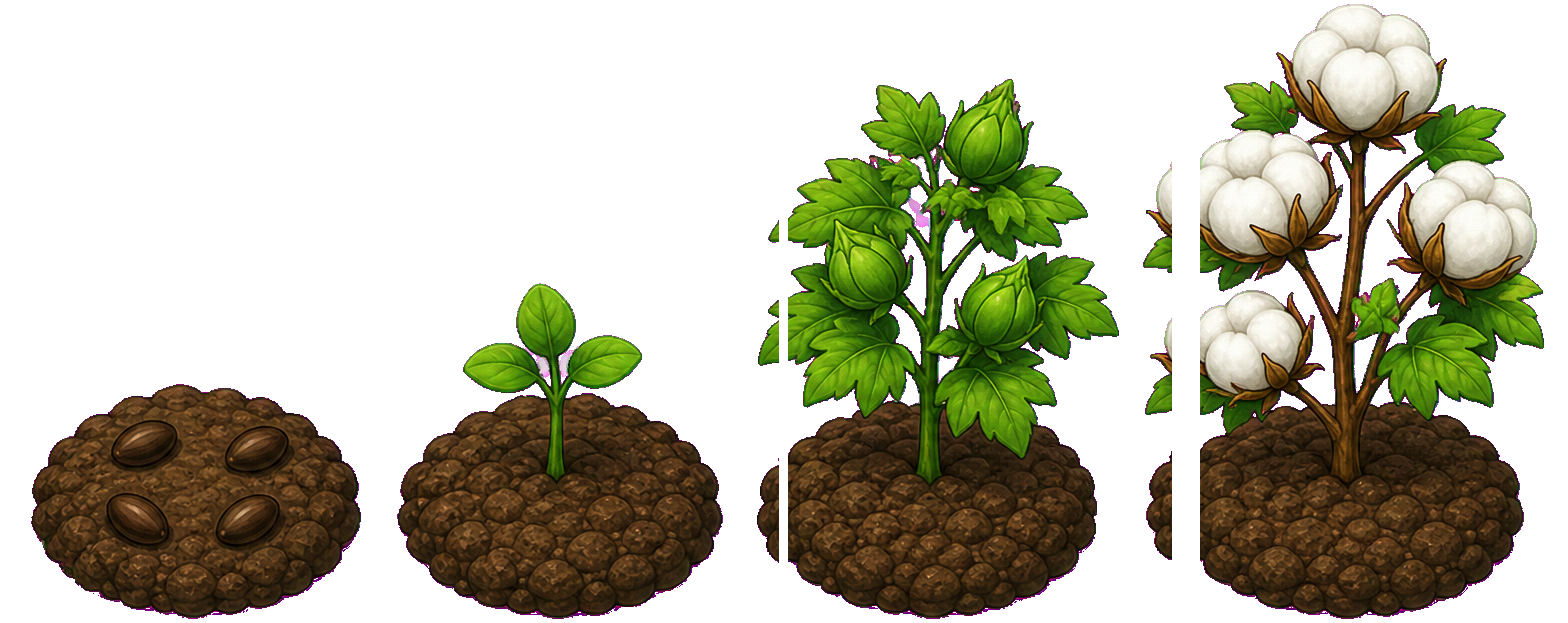
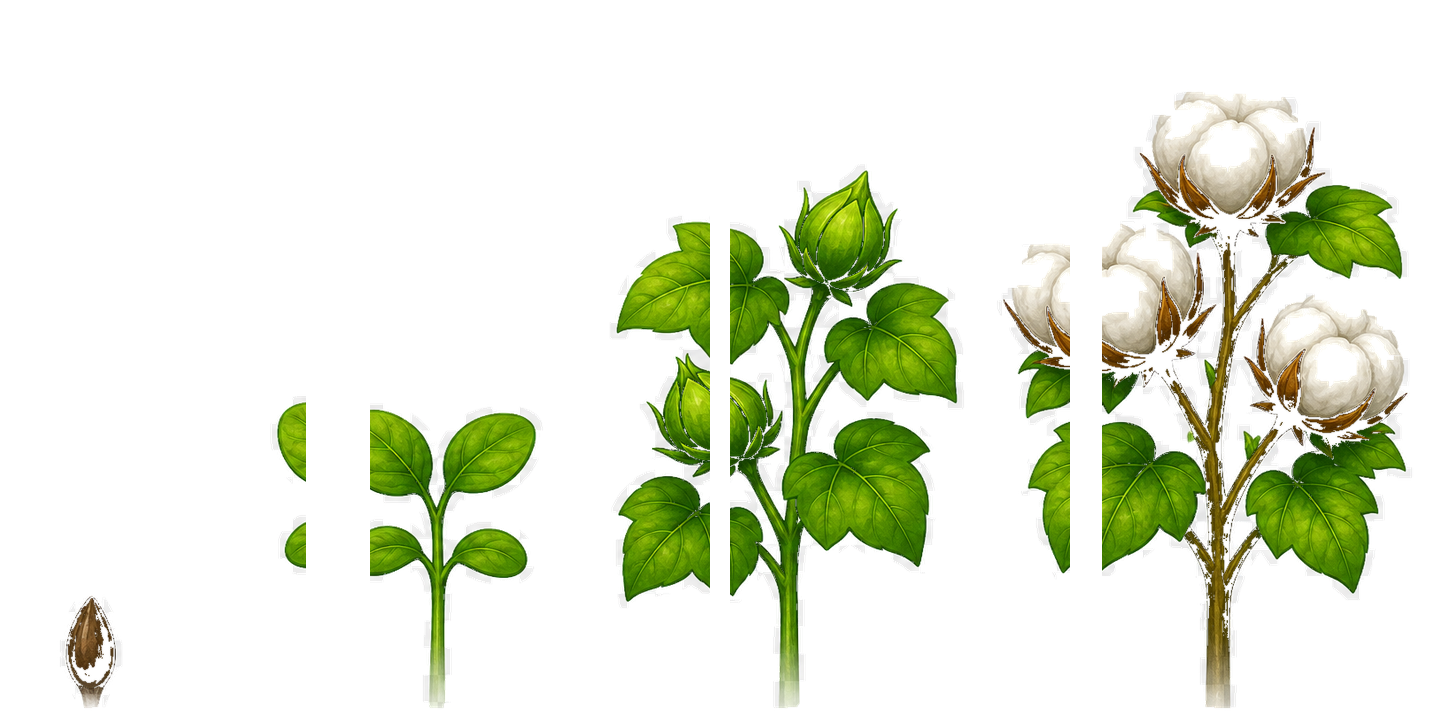
Seat plants in painted mound centers without dirt cookies
Replace the farm soil-rect UV lerp with measured 3×3 mound-peak
anchors on each garden, recentre the zoom hotspots the same way, and
swap crop sheets to plant-only stems anchored at bottom-center.

diff --git a/apps/player/src/pixi/playfieldLayout.ts b/apps/player/src/pixi/playfieldLayout.ts
@@ -41,17 +41,51 @@ export const PLAYFIELD_LAYOUT = {
     {
       hit: { u0: 0.02, v0: 0.4, u1: 0.32, v1: 0.9 } satisfies UvRect,
       sign: { u: 0.163, v: 0.484 } satisfies Uv,
-      soil: { u0: 0.07, v0: 0.62, u1: 0.27, v1: 0.86 } satisfies UvRect,
+      soil: { u0: 0.09, v0: 0.615, u1: 0.266, v1: 0.785 } satisfies UvRect,
+      /** Stem anchors: pebble-ring / mound-peak centers, measured on the v3 painting. */
+      mounds: [
+        { u: 0.12, v: 0.648 },
+        { u: 0.178, v: 0.648 },
+        { u: 0.236, v: 0.648 },
+        { u: 0.12, v: 0.698 },
+        { u: 0.178, v: 0.698 },
+        { u: 0.236, v: 0.698 },
+        { u: 0.12, v: 0.748 },
+        { u: 0.178, v: 0.748 },
+        { u: 0.236, v: 0.748 },
+      ] as const satisfies readonly Uv[],
     },
     {
       hit: { u0: 0.34, v0: 0.4, u1: 0.66, v1: 0.9 } satisfies UvRect,
       sign: { u: 0.495, v: 0.48 } satisfies Uv,
-      soil: { u0: 0.39, v0: 0.62, u1: 0.61, v1: 0.86 } satisfies UvRect,
+      soil: { u0: 0.412, v0: 0.615, u1: 0.588, v1: 0.785 } satisfies UvRect,
+      mounds: [
+        { u: 0.442, v: 0.648 },
+        { u: 0.5, v: 0.648 },
+        { u: 0.558, v: 0.648 },
+        { u: 0.442, v: 0.698 },
+        { u: 0.5, v: 0.698 },
+        { u: 0.558, v: 0.698 },
+        { u: 0.442, v: 0.748 },
+        { u: 0.5, v: 0.748 },
+        { u: 0.558, v: 0.748 },
+      ] as const satisfies readonly Uv[],
     },
     {
       hit: { u0: 0.66, v0: 0.4, u1: 0.99, v1: 0.9 } satisfies UvRect,
       sign: { u: 0.795, v: 0.484 } satisfies Uv,
-      soil: { u0: 0.71, v0: 0.62, u1: 0.93, v1: 0.86 } satisfies UvRect,
+      soil: { u0: 0.742, v0: 0.615, u1: 0.918, v1: 0.785 } satisfies UvRect,
+      mounds: [
+        { u: 0.772, v: 0.648 },
+        { u: 0.83, v: 0.648 },
+        { u: 0.888, v: 0.648 },
+        { u: 0.772, v: 0.698 },
+        { u: 0.83, v: 0.698 },
+        { u: 0.888, v: 0.698 },
+        { u: 0.772, v: 0.748 },
+        { u: 0.83, v: 0.748 },
+        { u: 0.888, v: 0.748 },
+      ] as const satisfies readonly Uv[],
     },
   ],
 } as const;
@@ -60,13 +94,9 @@ export const PLAYFIELD_LAYOUT = {
 export const MOUND_COLS = GARDEN_PLOT_COLS;
 export const PLAYABLE_PLOT_SLOTS = PLOTS_PER_GARDEN;
 
-export function moundUv(soil: UvRect, slot: number): Uv {
-  const col = ((slot % MOUND_COLS) + MOUND_COLS) % MOUND_COLS;
-  const row = Math.min(MOUND_COLS - 1, Math.floor(Math.max(0, slot) / MOUND_COLS));
-  return {
-    u: soil.u0 + ((col + 0.5) / MOUND_COLS) * (soil.u1 - soil.u0),
-    v: soil.v0 + ((row + 0.5) / MOUND_COLS) * (soil.v1 - soil.v0),
-  };
+export function moundUv(garden: { mounds: readonly Uv[] }, slot: number): Uv {
+  const i = ((slot % PLOTS_PER_GARDEN) + PLOTS_PER_GARDEN) % PLOTS_PER_GARDEN;
+  return garden.mounds[i]!;
 }
 
 export function uvToLocal(uv: Uv, texW: number, texH: number) {

diff --git a/apps/player/src/pixi/playfieldLayout.test.ts b/apps/player/src/pixi/playfieldLayout.test.ts
@@ -102,15 +102,34 @@ test("garden plaques show seeds and points under the name", () => {
   assert.equal(gardenSignStats(3, 12), "3 seeds · 12 pts");
 });
 
-test("nine playable mounds fill the painted 3×3 soil", () => {
-  const soil = PLAYFIELD_LAYOUT.gardens[0].soil;
-  const slots = [0, 1, 2, 3, 4, 5, 6, 7, 8].map((slot) => moundUv(soil, slot));
+test("nine playable mounds sit on measured mound peaks, not a soil-rect lerp", () => {
+  const garden = PLAYFIELD_LAYOUT.gardens[0];
+  const slots = [0, 1, 2, 3, 4, 5, 6, 7, 8].map((slot) => moundUv(garden, slot));
+  assert.equal(garden.mounds.length, 9);
   assert.ok(slots[0].u < slots[1].u && slots[1].u < slots[2].u);
   assert.ok(slots[0].v < slots[3].v && slots[3].v < slots[6].v, "row 0 back, row 2 front");
   for (const uv of slots) {
-    assert.ok(uv.u > soil.u0 && uv.u < soil.u1);
-    assert.ok(uv.v > soil.v0 && uv.v < soil.v1);
+    assert.ok(uv.u > garden.soil.u0 && uv.u < garden.soil.u1);
+    assert.ok(uv.v > garden.soil.v0 && uv.v < garden.soil.v1);
   }
+  // Legacy lerp put slot 0 at ~0.103, 0.66 — far from the painted peak.
+  assert.ok(Math.abs(slots[0].u - 0.1033) > 0.01);
+  assert.ok(slots[0].u > 0.11 && slots[0].u < 0.14);
+  assert.ok(slots[8].u > 0.22 && slots[8].u < 0.25);
+  assert.ok(slots[6].v < 0.77, "front row stays on the mound, not the gate");
+});
+
+test("each farm garden has its own 9 mound anchors", () => {
+  for (const garden of PLAYFIELD_LAYOUT.gardens) {
+    assert.equal(garden.mounds.length, 9);
+    const mid = moundUv(garden, 4);
+    assert.ok(mid.u > garden.soil.u0 && mid.u < garden.soil.u1);
+    assert.ok(mid.v > garden.soil.v0 && mid.v < garden.soil.v1);
+  }
+  const left = moundUv(PLAYFIELD_LAYOUT.gardens[0], 4);
+  const center = moundUv(PLAYFIELD_LAYOUT.gardens[1], 4);
+  const right = moundUv(PLAYFIELD_LAYOUT.gardens[2], 4);
+  assert.ok(left.u < center.u && center.u < right.u);
 });
 
 test("right-facing cow sheet flips via scale.x when roaming left", () => {

diff --git a/apps/player/src/pixi/GardenScene.ts b/apps/player/src/pixi/GardenScene.ts
@@ -9,7 +9,13 @@ import {
   GARDEN_ZOOM_TEXTURE,
   gardenMoundUv,
 } from "./gardenLayout";
-import { CROP_FRAME_WIDTH, cropStageFrame, type PaintedArt } from "./paintedAssets";
+import {
+  CROP_FRAME_HEIGHT,
+  PLANT_STEM_ANCHOR,
+  ZOOM_PLANT_HEIGHT_PX,
+  cropStageFrame,
+  type PaintedArt,
+} from "./paintedAssets";
 import { uvToLocal } from "./playfieldLayout";
 
 /**
@@ -172,7 +178,7 @@ class PlotNode {
     this.glow.blendMode = "add";
     this.glow.visible = false;
     this.sparkle = new SparkleField(atlas, 8);
-    this.plant.anchor.set(0.5, 0.9);
+    this.plant.anchor.set(PLANT_STEM_ANCHOR.x, PLANT_STEM_ANCHOR.y);
     this.label = new Text({
       text: "",
       style: {
@@ -192,13 +198,13 @@ class PlotNode {
 
   layout(s: number) {
     const { rx, ry } = GARDEN_ZOOM_LAYOUT.hit;
-    this.cropScale = (148 * s) / CROP_FRAME_WIDTH;
+    this.cropScale = (ZOOM_PLANT_HEIGHT_PX * s) / CROP_FRAME_HEIGHT;
     this.plant.scale.set(this.cropScale);
-    this.glow.position.set(0, -10 * s);
-    this.glow.scale.set(2.4 * s);
-    this.sparkle.root.position.set(0, -8 * s);
+    this.glow.position.set(0, -18 * s);
+    this.glow.scale.set(2.2 * s);
+    this.sparkle.root.position.set(0, -22 * s);
     this.sparkle.setArea(rx * s * 0.7, ry * s * 0.7);
-    this.label.position.set(0, 28 * s);
+    this.label.position.set(0, 22 * s);
     this.label.style.fontSize = Math.max(14, 18 * s);
     this.root.hitArea = new Ellipse(0, 0, rx * s, ry * s);
   }

diff --git a/apps/player/src/pixi/FarmScene.ts b/apps/player/src/pixi/FarmScene.ts
@@ -6,7 +6,13 @@ import type { Atlas } from "./atlas";
 import { coverFit } from "./draw";
 import type { PixiEngine } from "./engine";
 import { SparkleField } from "./fx";
-import { CROP_FRAME_WIDTH, cropStageFrame, type PaintedArt } from "./paintedAssets";
+import {
+  CROP_FRAME_HEIGHT,
+  FARM_PLANT_HEIGHT_PX,
+  PLANT_STEM_ANCHOR,
+  cropStageFrame,
+  type PaintedArt,
+} from "./paintedAssets";
 import {
   PLAYABLE_PLOT_SLOTS,
   PLAYFIELD_TEXTURE,
@@ -211,7 +217,7 @@ class GardenHotspot {
     this.sparkle = new SparkleField(atlas, 8);
     for (let i = 0; i < PLAYABLE_PLOT_SLOTS; i++) {
       const spr = new Sprite();
-      spr.anchor.set(0.5, 0.9);
+      spr.anchor.set(PLANT_STEM_ANCHOR.x, PLANT_STEM_ANCHOR.y);
       spr.visible = false;
       this.plants.push(spr);
     }
@@ -239,10 +245,9 @@ class GardenHotspot {
     this.nameText.position.set(0, -2);
     this.statsText.position.set(0, 2);
     const soil = uvRectToLocal(this.spec.soil, texW, texH);
-    const cellW = (soil.x1 - soil.x0) / 3;
-    this.cropScale = cellW / CROP_FRAME_WIDTH;
+    this.cropScale = FARM_PLANT_HEIGHT_PX / CROP_FRAME_HEIGHT;
     this.plants.forEach((spr, slot) => {
-      const uv = moundUv(this.spec.soil, slot);
+      const uv = moundUv(this.spec, slot);
       const p = uvToLocal(uv, texW, texH);
       spr.position.set(p.x, p.y);
       spr.scale.set(this.cropScale);

diff --git a/apps/player/src/pixi/paintedAssets.test.ts b/apps/player/src/pixi/paintedAssets.test.ts
@@ -1,6 +1,6 @@
 import assert from "node:assert/strict";
 import test from "node:test";
-import { COW_EAT_SHEET, PAINTED_ART, sheetFrameRects, SHEET_INSET } from "./paintedAssets.ts";
+import { CROP_FRAME_WIDTH, CROP_SHEET, COW_EAT_SHEET, PAINTED_ART, sheetFrameRects, SHEET_INSET } from "./paintedAssets.ts";
 
 test("walk uses two separate textures, not a combined walk/eat sheet", () => {
   assert.equal(PAINTED_ART.cowWalk.length, 2);
@@ -12,6 +12,16 @@ test("walk uses two separate textures, not a combined walk/eat sheet", () => {
   assert.ok(PAINTED_ART.cowWalk.every((url) => url.endsWith(".png")));
   assert.ok(PAINTED_ART.playfield.includes("v3_no_static_cow"));
   assert.equal(PAINTED_ART.gardenZoom, "/art/painted/garden/garden_zoom_3x3.jpg");
+});
+
+test("crop sheets are plant-only equal cells with stem at the bottom", () => {
+  assert.equal(CROP_SHEET.width, 1440);
+  assert.equal(CROP_SHEET.height, 720);
+  assert.equal(CROP_SHEET.frames, 4);
+  assert.equal(CROP_FRAME_WIDTH, 360);
+  assert.ok(PAINTED_ART.crops.corn.endsWith(".png"));
+  assert.ok(PAINTED_ART.crops.strawberry.endsWith(".png"));
+  assert.ok(PAINTED_ART.crops.cotton.endsWith(".png"));
 });
 
 test("eat sheet frames are equal, in-bounds, and do not share pixels", () => {

diff --git a/apps/player/src/pixi/paintedAssets.ts b/apps/player/src/pixi/paintedAssets.ts
@@ -2,8 +2,16 @@ import { CROP_KINDS, type CropKind } from "@farmhand/shared";
 import { Assets, Rectangle, Texture } from "pixi.js";
 
 export const CROP_STAGE_FRAMES = 4;
-/** Equal slice width on every crop sheet (1568 / 4). */
-export const CROP_FRAME_WIDTH = 392;
+/** Plant-only sheets: 1440×720, four equal cells, stem at the bottom of each cell. */
+export const CROP_SHEET = { width: 1440, height: 720, frames: 4 } as const;
+export const CROP_FRAME_WIDTH = CROP_SHEET.width / CROP_SHEET.frames;
+export const CROP_FRAME_HEIGHT = CROP_SHEET.height;
+/** Pixi sprite pivot: bottom-center of the stem/seed, seated in the painted mound. */
+export const PLANT_STEM_ANCHOR = { x: 0.5, y: 1 } as const;
+/** On-texture height of a full crop frame on the farm playfield (mature corn fills most of the cell). */
+export const FARM_PLANT_HEIGHT_PX = 64;
+/** On-texture height of a full crop frame in the zoomed garden. */
+export const ZOOM_PLANT_HEIGHT_PX = 220;
 
 /** Padded 4-frame eat/graze PNG with real alpha (equal cells; Pixi insets so frames never share pixels). */
 export const COW_EAT_SHEET = { width: 1704, height: 304, frames: 4 } as const;

diff --git a/apps/player/src/pixi/gardenLayout.ts b/apps/player/src/pixi/gardenLayout.ts
@@ -23,23 +23,23 @@ export const GARDEN_TOOL_LABEL: Record<GardenTool, string> = {
 
 /**
  * UV layout on the zoomed 3×3 garden painting.
- * Mounds are a regular grid inside the fenced dirt; the blank sign is the back rail.
+ * Mound UVs are pebble-ring / mound-peak centers (stem sits at the apex).
  */
 export const GARDEN_ZOOM_LAYOUT = {
   sign: { u: 0.5, v: 0.145 } satisfies Uv,
   mounds: [
-    { u: 0.3, v: 0.36 },
-    { u: 0.5, v: 0.36 },
-    { u: 0.7, v: 0.36 },
-    { u: 0.3, v: 0.54 },
-    { u: 0.5, v: 0.54 },
-    { u: 0.7, v: 0.54 },
-    { u: 0.3, v: 0.72 },
-    { u: 0.5, v: 0.72 },
-    { u: 0.7, v: 0.72 },
+    { u: 0.305, v: 0.385 },
+    { u: 0.5, v: 0.385 },
+    { u: 0.695, v: 0.385 },
+    { u: 0.305, v: 0.555 },
+    { u: 0.5, v: 0.555 },
+    { u: 0.695, v: 0.555 },
+    { u: 0.305, v: 0.725 },
+    { u: 0.5, v: 0.725 },
+    { u: 0.695, v: 0.725 },
   ] as const satisfies readonly Uv[],
   /** Hit ellipse in texture pixels around each mound center. */
-  hit: { rx: 92, ry: 64 } as const,
+  hit: { rx: 110, ry: 78 } as const,
 } as const;
 
 export function gardenMoundUv(slot: number): Uv {

diff --git a/apps/player/src/pixi/gardenLayout.test.ts b/apps/player/src/pixi/gardenLayout.test.ts
@@ -34,9 +34,11 @@ test("zoomed garden has nine mound UVs inside the dirt", () => {
   assert.ok(slots[0]!.u < slots[1]!.u && slots[1]!.u < slots[2]!.u);
   assert.ok(slots[0]!.v < slots[3]!.v && slots[3]!.v < slots[6]!.v);
   for (const uv of slots) {
-    assert.ok(uv.u > 0.2 && uv.u < 0.8);
-    assert.ok(uv.v > 0.25 && uv.v < 0.85);
+    assert.ok(uv.u > 0.25 && uv.u < 0.75);
+    assert.ok(uv.v > 0.32 && uv.v < 0.78);
   }
+  assert.ok(Math.abs(slots[4]!.u - 0.5) < 0.01);
+  assert.ok(slots[0]!.v > 0.36, "back row sits on the painted mounds, not the sign");
 });
 
 test("tool art stays PNG with real alpha paths", () => {

diff --git a/apps/player/public/art/painted/plants/README.md b/apps/player/public/art/painted/plants/README.md
@@ -1,11 +1,13 @@
 # Painted crop stages
 
-Horizontal sheets, **four equal frames**, left → right:
+Horizontal **plant-only** sheets (no soil discs / dirt cookies). Four equal frames, left → right:
 
-1. Seed on the soil mound
+1. Seed / kernel
 2. Seedling
 3. Growing with buds / flowers
 4. Mature / ripe
+
+Stem and seed bases fade into transparency so they composite onto the painted garden mounds. Anchor sprites at **bottom-center** of each frame.
 
 | File | Crop kind (code) |
 | --- | --- |
@@ -13,6 +15,6 @@ Horizontal sheets, **four equal frames**, left → right:
 | `plant_strawberry_stages.png` | `strawberry` |
 | `plant_cotton_stages.png` | `cotton` |
 
-Each frame is **392px** wide. Sheets have transparent backgrounds and a shared soil-mound base so they can sit on the painted garden mounds. Do not bake crop names into the pixels — names live in game config / UI text.
+Each sheet is **1440×720**; each frame is **360×720**. Do not bake crop names into the pixels — names live in game config / UI text.
 
 Gameplay maps `growthStage` 1–4 (from the plant timer) onto these frames. Tier 1–3 map to corn / strawberry / cotton.
